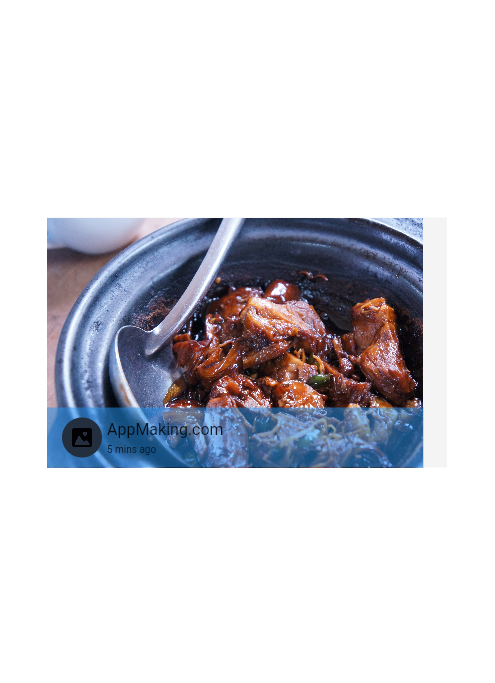
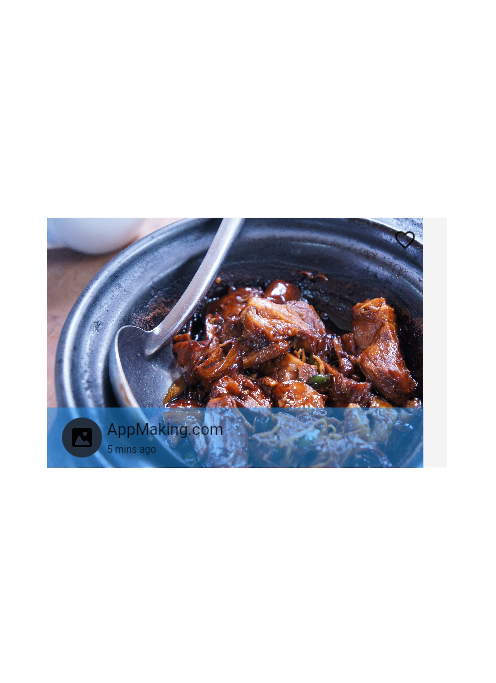
UI Design

diff --git a/ui_design/lib/screens/practice_17.dart b/ui_design/lib/screens/practice_17.dart
@@ -18,6 +18,11 @@ class Practice17 extends StatelessWidget {
               color: const Color(0xFFf4f4f4),
               child: Stack(children: [
                 Image.asset('images/food.jpg'),
+                const Positioned(
+                  top: 10,
+                  right: 30,
+                  child: Icon(Icons.favorite_border),
+                ),
                 Align(
                   alignment: Alignment.bottomLeft,
                   child: Container(

diff --git a/ui_design/lib/main.dart b/ui_design/lib/main.dart
@@ -1,4 +1,5 @@
 import 'package:flutter/material.dart';
+import 'package:ui_design/screens/practice_17.dart';
 import 'package:ui_design/screens/practice_22.dart';
 
 void main() {
@@ -14,7 +15,7 @@ class MyApp extends StatelessWidget {
     return MaterialApp(
       debugShowCheckedModeBanner: false,
       title: 'UI - Design Task',
-      home: const Practice22(),
+      home: const Practice17(),
     );
   }
 }
